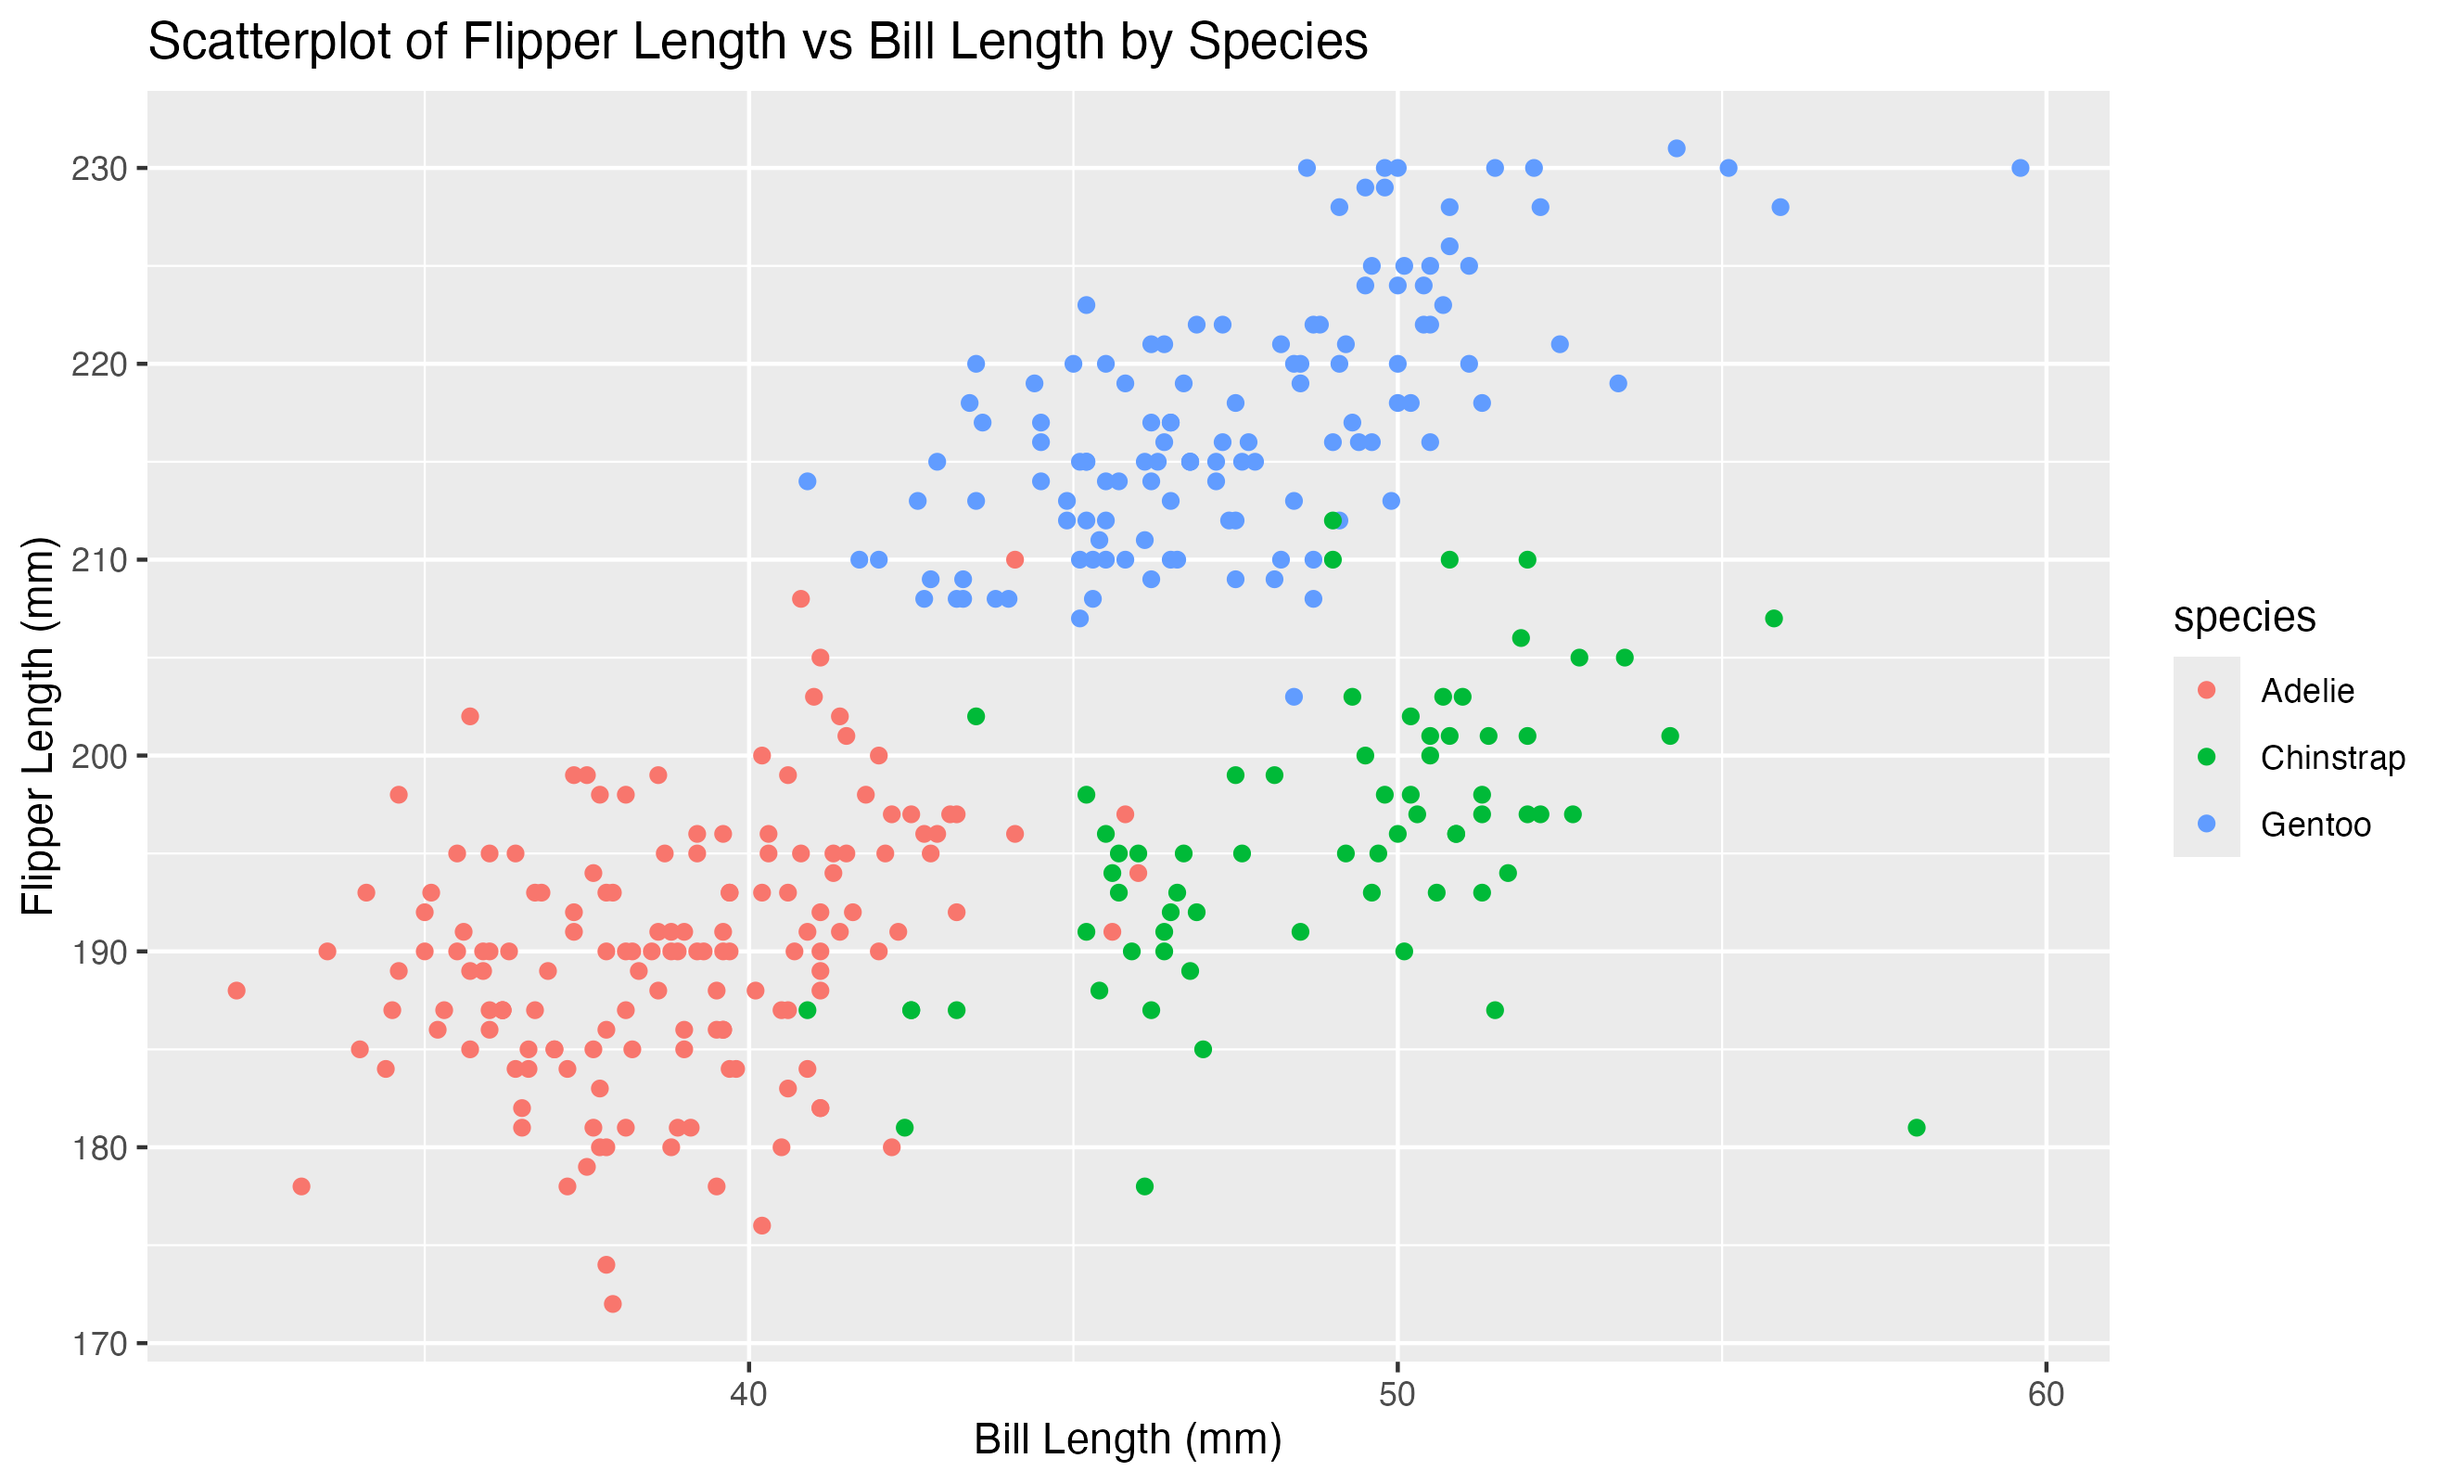
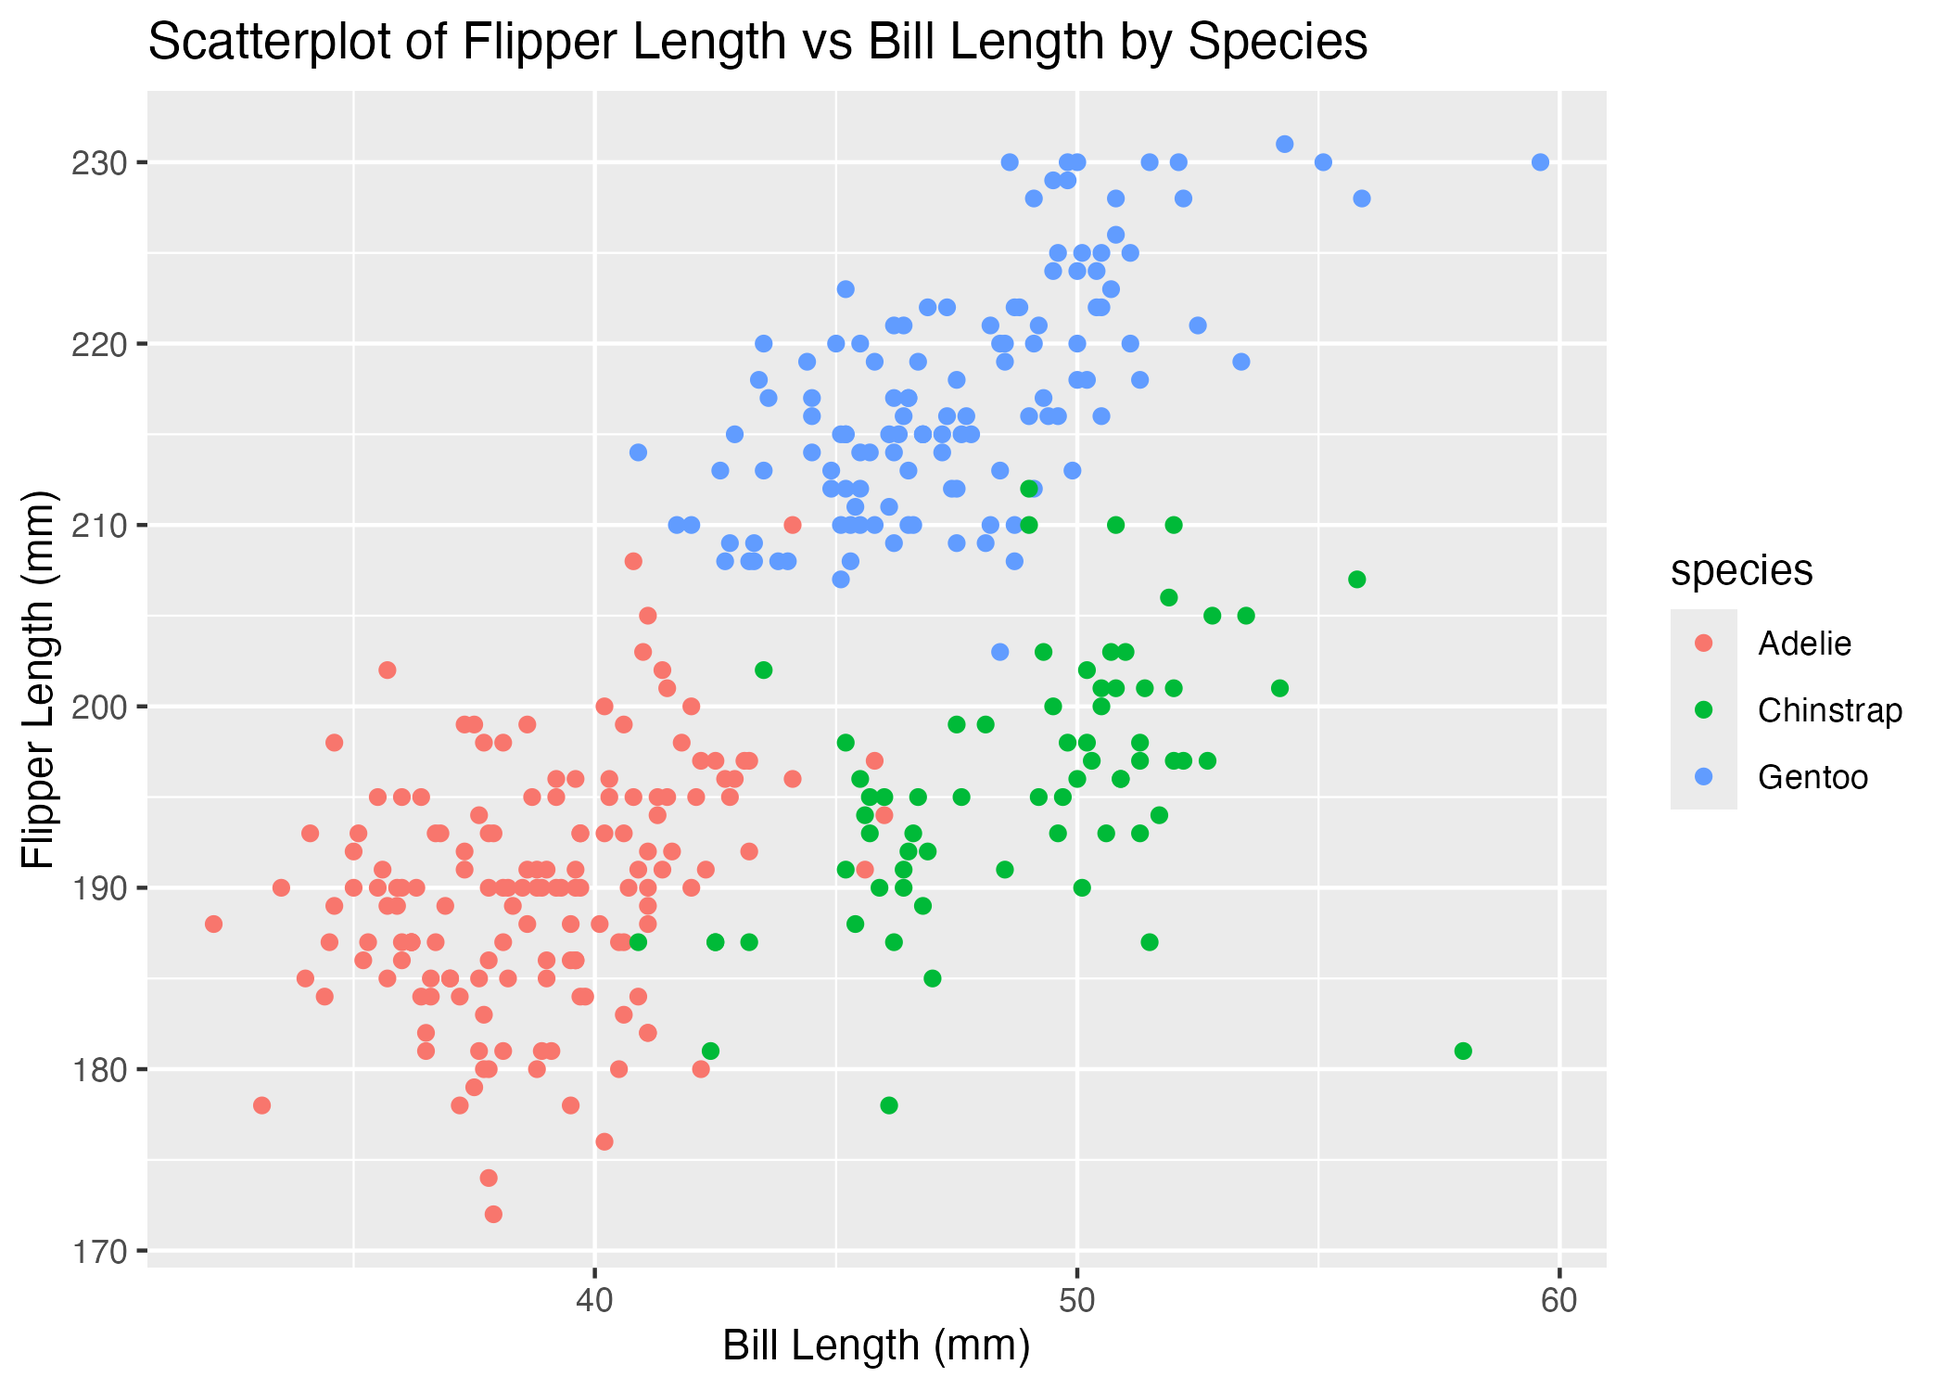
knit the rmd and upload for problem 1

diff --git a/p8105_hw1_qc2337.md b/p8105_hw1_qc2337.md
@@ -1,0 +1,80 @@
+p8105_hw1_qc2337
+================
+2024-09-21
+
+# hw1 Problem 1
+
+``` r
+# First loaded the palmerpenguins package and load pemnguins dataset
+library(palmerpenguins)
+data("penguins", package = "palmerpenguins")
+
+# Second description of the penguins dataset using inline R code
+# Show variable names
+names(penguins)
+```
+
+    ## [1] "species"           "island"            "bill_length_mm"   
+    ## [4] "bill_depth_mm"     "flipper_length_mm" "body_mass_g"      
+    ## [7] "sex"               "year"
+
+``` r
+# Show structure of the dataset
+str(penguins)
+```
+
+    ## tibble [344 × 8] (S3: tbl_df/tbl/data.frame)
+    ##  $ species          : Factor w/ 3 levels "Adelie","Chinstrap",..: 1 1 1 1 1 1 1 1 1 1 ...
+    ##  $ island           : Factor w/ 3 levels "Biscoe","Dream",..: 3 3 3 3 3 3 3 3 3 3 ...
+    ##  $ bill_length_mm   : num [1:344] 39.1 39.5 40.3 NA 36.7 39.3 38.9 39.2 34.1 42 ...
+    ##  $ bill_depth_mm    : num [1:344] 18.7 17.4 18 NA 19.3 20.6 17.8 19.6 18.1 20.2 ...
+    ##  $ flipper_length_mm: int [1:344] 181 186 195 NA 193 190 181 195 193 190 ...
+    ##  $ body_mass_g      : int [1:344] 3750 3800 3250 NA 3450 3650 3625 4675 3475 4250 ...
+    ##  $ sex              : Factor w/ 2 levels "female","male": 2 1 1 NA 1 2 1 2 NA NA ...
+    ##  $ year             : int [1:344] 2007 2007 2007 2007 2007 2007 2007 2007 2007 2007 ...
+
+``` r
+# Size of the dataset
+nrow(penguins)
+```
+
+    ## [1] 344
+
+``` r
+ncol(penguins)
+```
+
+    ## [1] 8
+
+``` r
+# Mean flipper length calculation
+mean_flipper_length <- mean(penguins$flipper_length_mm, na.rm = TRUE)
+mean_flipper_length
+```
+
+    ## [1] 200.9152
+
+``` r
+# Make a scatterplot
+library(ggplot2)
+ggplot(data = penguins, aes(x = bill_length_mm, y = flipper_length_mm, color = species)) +
+    geom_point() + 
+    labs(title = "Scatterplot of Flipper Length vs Bill Length by Species",
+         x = "Bill Length (mm)",
+         y = "Flipper Length (mm)")
+```
+
+    ## Warning: Removed 2 rows containing missing values or values outside the scale range
+    ## (`geom_point()`).
+
+![](p8105_hw1_qc2337_files/figure-gfm/unnamed-chunk-1-1.png)<!-- -->
+
+``` r
+# Save the scatterplot
+ggsave("penguins_scatterplot.png")
+```
+
+    ## Saving 7 x 5 in image
+
+    ## Warning: Removed 2 rows containing missing values or values outside the scale range
+    ## (`geom_point()`).
